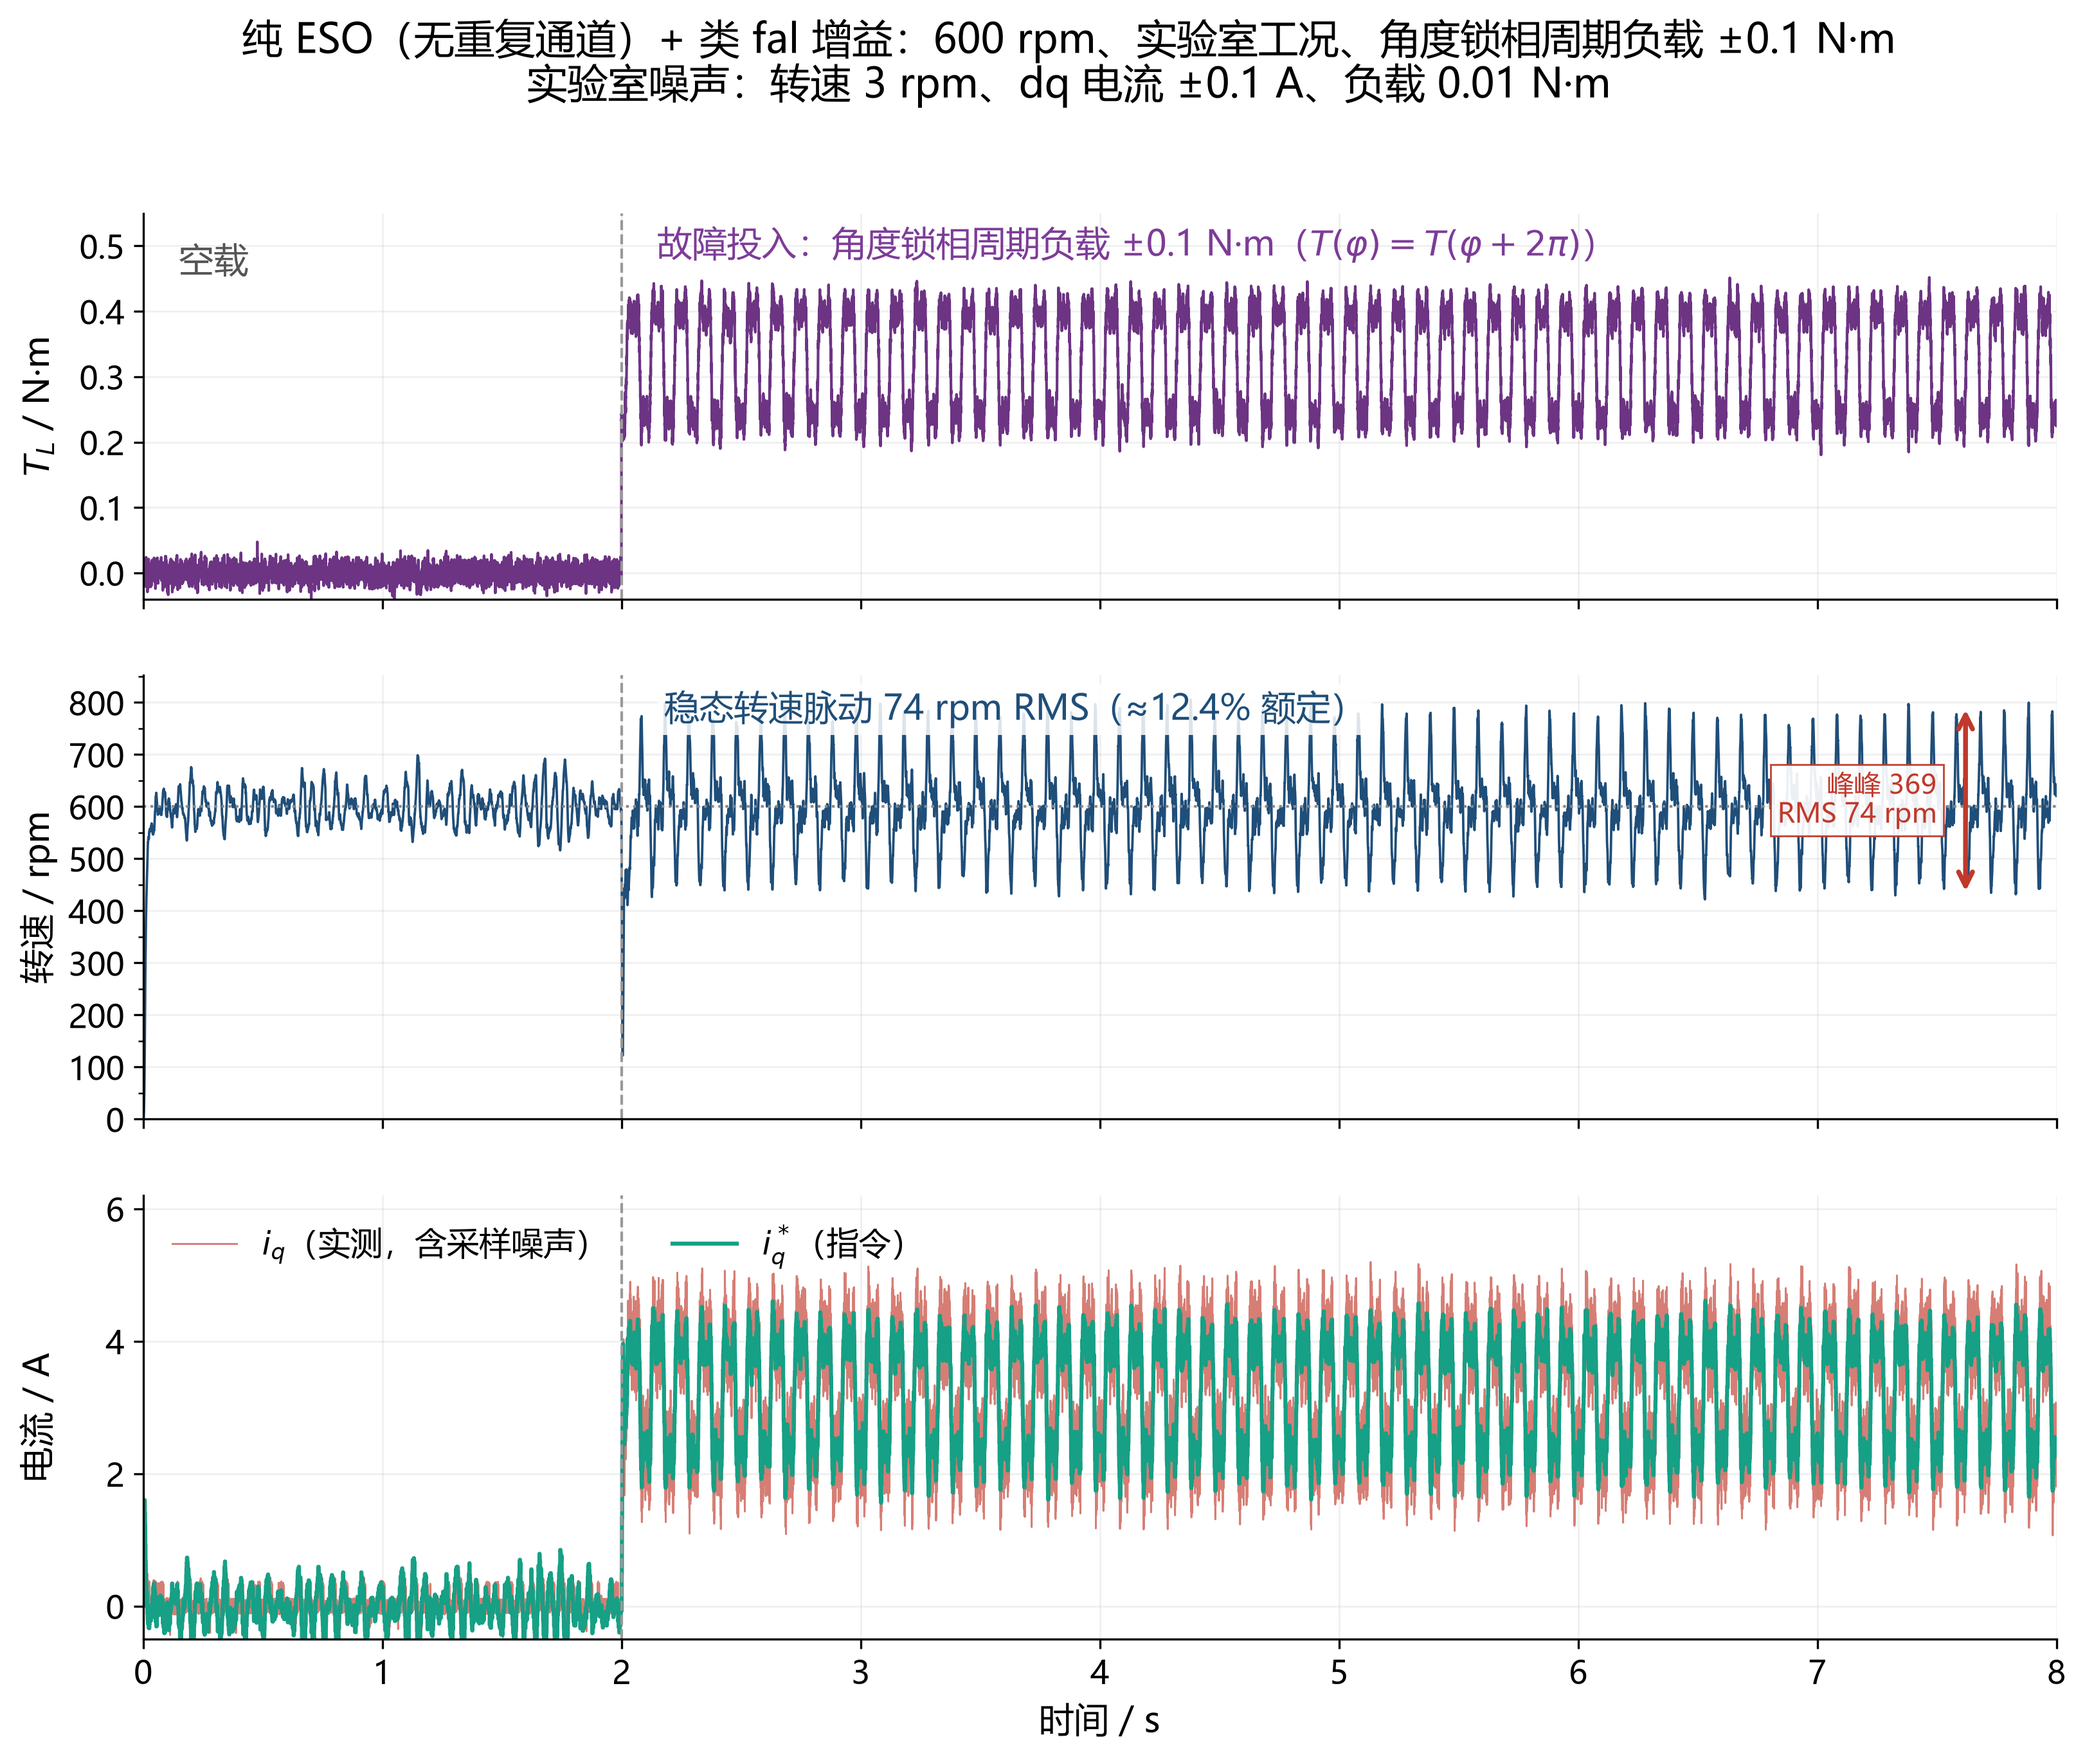
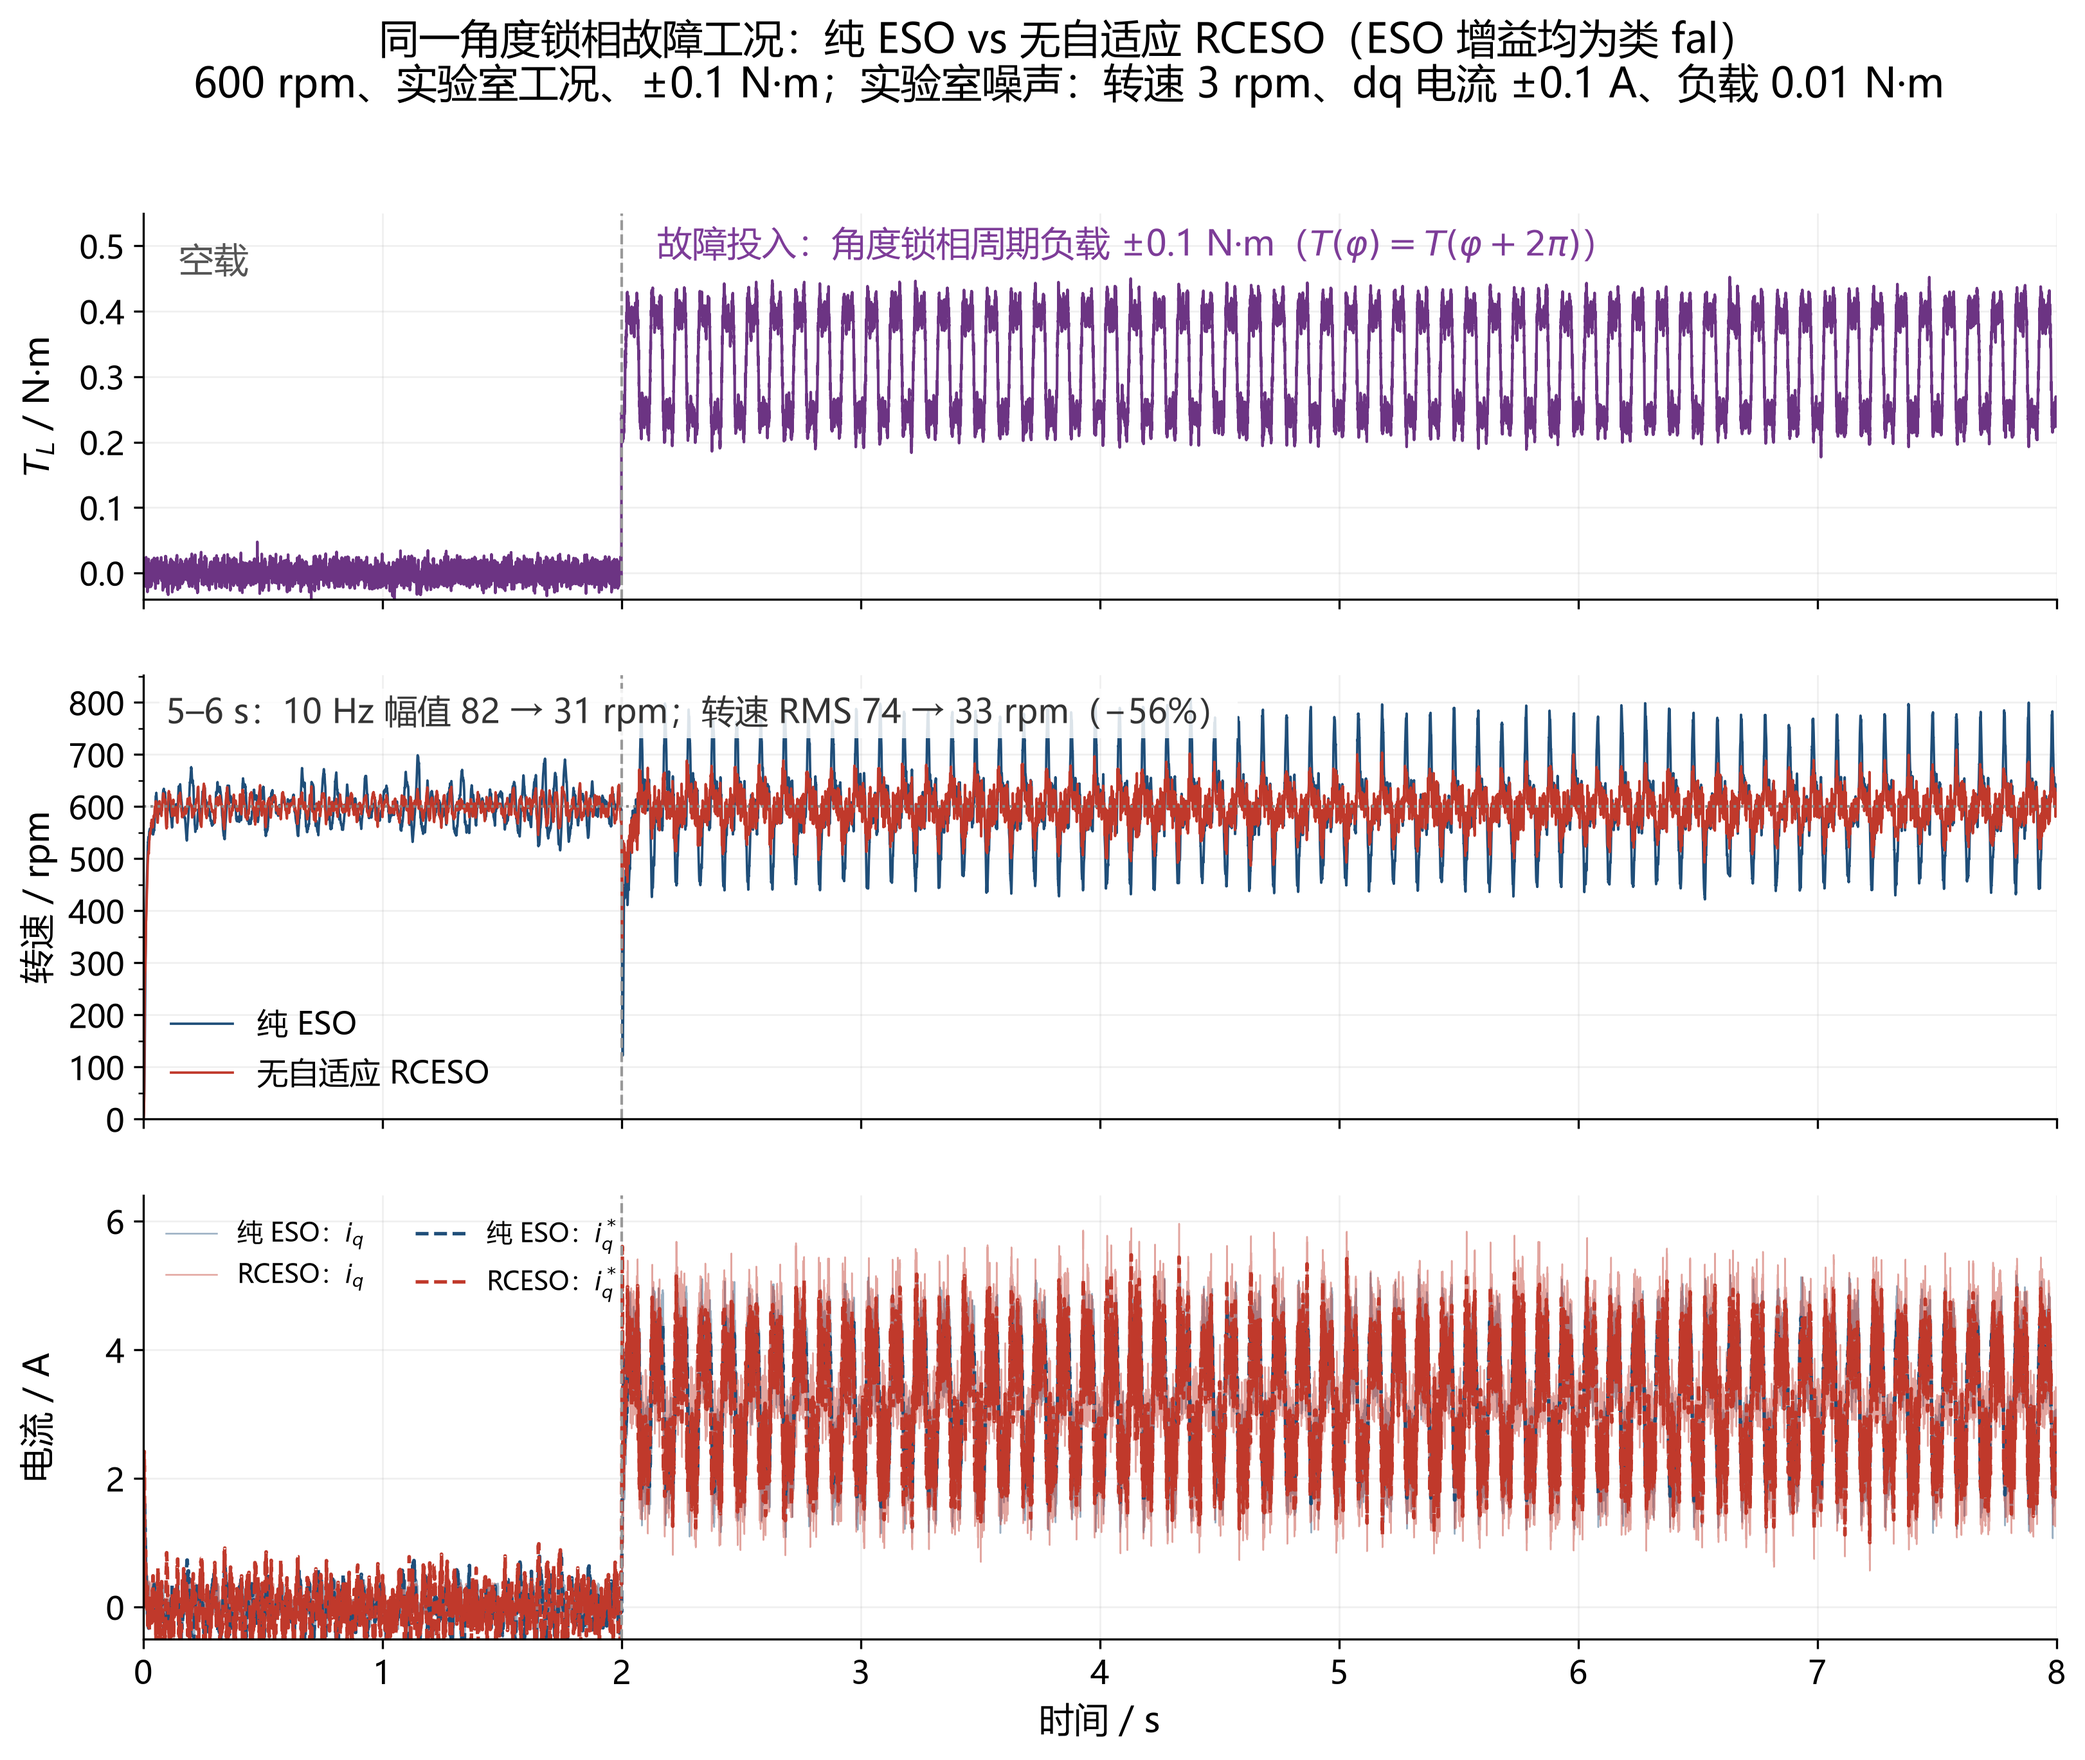
feat(ppt): 图1 增加同工况“无自适应 RCESO”对照（类 fal）
- 纯 ESO: beta3=0, 74.3 rpm RMS；无自适应 RCESO: beta3=4000, 32.6 rpm RMS (-56%)

- 10 Hz 幅值 81.7 -> 30.5 rpm；iq 峰值 5.20 -> 6.17 A

- 图改为双曲线：转速两档叠加，电流行 iq 实线 + iq* 虚线

diff --git a/plot_ppt_fig1.py b/plot_ppt_fig1.py
@@ -1,7 +1,7 @@
 # -*- coding: utf-8 -*-
-"""plot_ppt_fig1.py —— PPT 图 1：纯 ESO + 类 fal 增益 应对角度锁相周期负载
+"""plot_ppt_fig1.py —— PPT 图 1：同一故障工况下 纯 ESO vs 无自适应 RCESO（均类 fal 增益）
 
-三行：负载 / 转速 / iq 与 iq 指令。PPT 规格（16:9 风格、大字号、300 dpi、白底浅网格）。
+三行：负载 / 转速 / iq 与 iq 指令。PPT 规格（300 dpi、白底、大字号）。
 输出：pptfig/ppt_01_eso_fal_fault.png
 """
 import json
@@ -15,6 +15,8 @@ D = np.load("_ppt_fig1.npz")
 J = json.load(open("_ppt_fig1.json", encoding="utf-8"))
 t = D["t"]
 N = J["n_ref"]
+C_ESO, C_RC = "#1f4e79", "#c0392b"
+C_TL = "#6c3483"
 
 plt.rcParams.update({
     "font.sans-serif": ["Microsoft YaHei", "SimHei", "DejaVu Sans"],
@@ -22,16 +24,15 @@ plt.rcParams.update({
     "figure.dpi": 120, "savefig.dpi": 300, "savefig.bbox": "tight",
     "axes.grid": True, "grid.alpha": 0.18, "grid.linewidth": 0.7,
     "axes.spines.top": False, "axes.spines.right": False,
-    "legend.frameon": False, "legend.fontsize": 12,
+    "legend.frameon": False, "legend.fontsize": 11.5,
 })
 
-C_TL, C_N, C_IQ, C_IQR = "#6c3483", "#1f4e79", "#c0392b", "#16a085"
 fig, ax = plt.subplots(3, 1, figsize=(12.8, 9.6), sharex=True,
                        gridspec_kw=dict(hspace=0.18, height_ratios=[1, 1.15, 1.15]))
-step = 6      # 10 kHz -> ~1.7 kHz 抽点，够看清 10 Hz 波形
+step = 6
 
-# (1) 负载
-ax[0].plot(t[::step], D["TL"][::step], color=C_TL, lw=1.0)
+# (1) 负载（两档共用同一条）
+ax[0].plot(t[::step], D["TL"][::step], color=C_TL, lw=1.0, label="施加负载 $T_L$")
 ax[0].set_ylabel("$T_L$ / N·m")
 ax[0].set_ylim(-0.04, 0.55)
 ax[0].text(0.15, 0.46, "空载", fontsize=13, color="#555")
@@ -40,45 +41,43 @@ ax[0].text(2.15, 0.485, "故障投入：角度锁相周期负载 ±0.1 N·m（$T
 ax[0].axvline(2.0, color="#999", ls="--", lw=1.0)
 
 # (2) 转速
-y = D["y"] * N
-ax[1].plot(t[::step], y[::step], color=C_N, lw=0.9)
+y_eso = D["y_eso"] * N
+y_rc = D["y_rceso"] * N
+ax[1].plot(t[::step], y_eso[::step], color=C_ESO, lw=0.9, label="纯 ESO")
+ax[1].plot(t[::step], y_rc[::step], color=C_RC, lw=0.9, label="无自适应 RCESO")
 ax[1].axhline(N, color="#888", ls=":", lw=1.0)
+ax[1].axvline(2.0, color="#999", ls="--", lw=1.0)
 ax[1].set_ylabel("转速 / rpm")
-ax[1].set_ylim(0, 1.42 * N)          # 0-850：峰值实测到 805，留 5% 余量不裁切
+ax[1].set_ylim(0, 1.42 * N)
 ax[1].yaxis.set_major_locator(MultipleLocator(100))
 ax[1].yaxis.set_minor_locator(MultipleLocator(50))
-ax[1].axvline(2.0, color="#999", ls="--", lw=1.0)
-# 纵轴跨度与峰峰标注（让观众一眼知道这个波动在什么刻度下）
-_ys = (t >= 5.0) & (t < 6.0)
-_y0, _y1 = y[_ys].min(), y[_ys].max()
-ax[1].annotate("", xy=(7.62, _y0), xytext=(7.62, _y1),
-               arrowprops=dict(arrowstyle="<->", color="#c0392b", lw=1.8))
-ax[1].text(7.50, (_y0 + _y1) / 2, "峰峰 %.0f\nRMS %.0f rpm" % (_y1 - _y0, J["steady_rms"]),
-           fontsize=10, color="#c0392b", ha="right", va="center",
-           bbox=dict(facecolor="white", edgecolor="#c0392b", lw=0.7, alpha=0.92, pad=2.5))
-
-ax[1].text(2.18, 1.42 * N * 0.90,
-           "稳态转速脉动 %.0f rpm RMS（≈%.1f%% 额定）" % (J["steady_rms"], 100 * J["steady_rms"] / N),
-           fontsize=13, color=C_N,
+e_eso = J["cases"]["eso"]["steady_rms"]
+e_rc = J["cases"]["rceso"]["steady_rms"]
+ax[1].text(0.012, 0.955,
+           "5–6 s：10 Hz 幅值 82 → 31 rpm；转速 RMS %.0f → %.0f rpm（−%.0f%%）"
+           % (e_eso, e_rc, 100 * (1 - e_rc / e_eso)),
+           transform=ax[1].transAxes, fontsize=12.5, color="#333", va="top",
            bbox=dict(facecolor="white", edgecolor="none", alpha=0.85, pad=2.5))
+ax[1].legend(loc="lower left", ncol=1, fontsize=11.5)
 
-# (3) iq / iq*
-ax[2].plot(t[::step], D["iq"][::step], color=C_IQ, lw=0.7, alpha=0.65,
-           label="$i_q$（实测，含采样噪声）")
-ax[2].plot(t[::step], D["iqr"][::step], color=C_IQR, lw=1.5, label="$i_q^*$（指令）")
+
+# (3) 电流：两档的 iq 实线 + iq* 虚线
+ax[2].plot(t[::step], D["iq_eso"][::step], color=C_ESO, lw=0.6, alpha=0.45, label="纯 ESO：$i_q$")
+ax[2].plot(t[::step], D["iq_rceso"][::step], color=C_RC, lw=0.6, alpha=0.45, label="RCESO：$i_q$")
+ax[2].plot(t[::step], D["iqr_eso"][::step], color=C_ESO, lw=1.3, ls="--", label="纯 ESO：$i_q^*$")
+ax[2].plot(t[::step], D["iqr_rceso"][::step], color=C_RC, lw=1.3, ls="--", label="RCESO：$i_q^*$")
 ax[2].set_ylabel("电流 / A")
 ax[2].set_xlabel("时间 / s")
 ax[2].set_xlim(0, 8)
 ax[2].axvline(2.0, color="#999", ls="--", lw=1.0)
-ax[2].legend(loc="upper left", ncol=2)
-ax[2].set_ylim(-0.5, 6.2)
+ax[2].legend(loc="upper left", ncol=2, fontsize=9.5)
+ax[2].set_ylim(-0.5, 6.4)
 
 for a in ax:
     a.tick_params(labelsize=12)
-fig.suptitle("纯 ESO（无重复通道）+ 类 fal 增益：600 rpm、实验室工况、角度锁相周期负载 ±0.1 N·m\n"
-             "实验室噪声：转速 3 rpm、dq 电流 ±0.1 A、负载 0.01 N·m",
+fig.suptitle("同一角度锁相故障工况：纯 ESO vs 无自适应 RCESO（ESO 增益均为类 fal）\n"
+             "600 rpm、实验室工况、±0.1 N·m；实验室噪声：转速 3 rpm、dq 电流 ±0.1 A、负载 0.01 N·m",
              fontsize=15, y=0.985)
-
 fig.align_ylabels(ax)
 fig.savefig("pptfig/ppt_01_eso_fal_fault.png")
 print("ok: pptfig/ppt_01_eso_fal_fault.png")

diff --git a/run_ppt_fig1.py b/run_ppt_fig1.py
@@ -1,64 +1,75 @@
 # -*- coding: utf-8 -*-
-"""run_ppt_fig1.py —— PPT 图 1：纯 ESO（无重复通道）+ 类 fal 增益 应对角度锁相周期负载
+"""run_ppt_fig1.py —— PPT 图 1：同一故障工况下 纯 ESO vs 无自适应 RCESO（均用类 fal 增益）
 
 工况（实验室档）：
     额定 600 rpm（10 Hz 机械转频），实验室噪声 3 rpm / 0.1 A / 0.01 N·m
     0–2 s   空载
     2–8 s   加载 0.50 额定（0.3185 N·m）
-    2–8 s   叠加**角度锁相**周期分量：T(φ)=A·[sinφ+0.4sin3φ+0.2sin5φ]，T(φ)=T(φ+2π)，dφ/dt=ω
-            A=0.1 N·m（峰值 ±0.1 N·m）
-控制器：纯 ESO —— 重复通道关闭（beta3=0），无律 D / 无 F-B；ESO 增益取类 fal 默认档。
+    2–8 s   叠加**角度锁相**周期分量：T(φ)=A[sinφ+0.4sin3φ+0.2sin5φ]，T(φ)=T(φ+2π)，dφ/dt=ω，A=0.1 N·m
 
-输出：_ppt_fig1.npz（t / TL / y / iq / iqr）、_ppt_fig1.json（指标）
+两档（ESO 增益均为类 fal 默认档 a=0.75, δ=0.10, λ=10）：
+    纯 ESO   : beta3 = 0（重复通道关闭）
+    无自适应 RCESO : beta3 = 4000、Q0 = 0.98、τ0 = 20 ms 固定（无 Q/τ 自适应、无律 D、无 F-B）
+
+输出：_ppt_fig1.npz（t / TL / y_eso / y_rceso / iq_* / iqr_*）、_ppt_fig1.json
 """
 import json
 import math
 
 import numpy as np
 
-from pmsm_inv_sim import sim_inv, I_BASE
+from pmsm_inv_sim import sim_inv
 import noise_cfg as NC
 
 DT, TEND, TL0 = 2e-6, 8.0, 2.0
 N_REF = 600.0
-AMP_ANG = 0.1          # N·m 峰值
+AMP_ANG = 0.1
 T_RATED = 0.637
 NPROF = 4096
 
 
 def profile_unit():
-    """单位幅值、周期 2π 的角度表：sinφ + 0.4 sin3φ + 0.2 sin5φ（归一化到峰值 1）"""
     ph = np.linspace(0.0, 2 * math.pi, NPROF, endpoint=False)
     f = np.sin(ph) + 0.4 * np.sin(3 * ph) + 0.2 * np.sin(5 * ph)
     return f / np.max(np.abs(f))
 
 
+CASES = [("eso", "纯 ESO", dict(beta3=0.0)),
+         ("rceso", "无自适应 RCESO", dict(beta3=4000.0, Q0=0.98, tau0=20e-3))]
+
+
 def main():
     t = np.arange(0.0, TEND, DT)
-    TL = (0.50 * (t >= TL0)).astype(float) * T_RATED       # 阶跃负载（时间域）
-    cfg = dict(n_ref=N_REF, T=0.1, fci=500.0,
-               beta3=0.0, tau0=20e-3,                    # 纯 ESO：重复通道关闭
-               i_noise_peak=NC.NOISE_LAB["i_noise_peak"],
-               sig_n=NC.NOISE_LAB["sig_n_rpm"],
-               sig_T_nm=NC.NOISE_LAB["sig_T_nm"],
-               seed_i=20261018,
-               tl_ang=profile_unit(), tl_ang_amp=AMP_ANG, tl_ang_start=TL0,
-               eso_law="fal", eso_a=0.75, eso_delta=0.10, eso_lam=10.0)
-    Y = sim_inv(t, TL, cfg)
-    tt = Y["t"]
-    e = (Y["y"] - 1.0) * N_REF
-    np.savez("_ppt_fig1.npz", t=tt, TL=Y["tl"], y=Y["y"], iq=Y["iq"], iqr=Y["iqr"],
-             ia=Y["ia"])
-    m = (tt >= 4.0) & (tt < 8.0)
-    m0 = (tt >= 7.0)
-    out = dict(n_ref=N_REF, amp_ang=AMP_ANG, fci=500.0, beta3=0.0,
-               steady_rms=round(float(np.sqrt(np.mean(e[m0] ** 2))), 2),
-               load_rms=round(float(np.sqrt(np.mean(e[m] ** 2))), 2),
-               iq_std=round(float(np.std(Y["iq"][m])), 3),
-               iq_max=round(float(np.max(np.abs(Y["iq"][m]))), 2),
-               iqr_max=round(float(np.max(np.abs(Y["iqr"][m]))), 2))
-    json.dump(out, open("_ppt_fig1.json", "w", encoding="utf-8"), ensure_ascii=False, indent=1)
-    print(json.dumps(out, ensure_ascii=False))
+    TL = (0.50 * (t >= TL0)).astype(float) * T_RATED
+    base = dict(n_ref=N_REF, T=0.1, fci=500.0,
+                i_noise_peak=NC.NOISE_LAB["i_noise_peak"],
+                sig_n=NC.NOISE_LAB["sig_n_rpm"],
+                sig_T_nm=NC.NOISE_LAB["sig_T_nm"],
+                seed_i=20261018,
+                tl_ang=profile_unit(), tl_ang_amp=AMP_ANG, tl_ang_start=TL0,
+                eso_law="fal", eso_a=0.75, eso_delta=0.10, eso_lam=10.0)
+    out = {}
+    meta = {}
+    for key, label, kw in CASES:
+        Y = sim_inv(t, TL, dict(base, **kw))
+        tt = Y["t"]
+        e = (Y["y"] - 1.0) * N_REF
+        out["t"] = tt
+        out["TL"] = Y["tl"]
+        out["y_" + key] = Y["y"]
+        out["iq_" + key] = Y["iq"]
+        out["iqr_" + key] = Y["iqr"]
+        m = (tt >= 5.0) & (tt < 6.0)
+        meta[key] = dict(label=label,
+                         steady_rms=round(float(np.sqrt(np.mean(e[m] ** 2))), 2),
+                         iq_std=round(float(np.std(Y["iq"][m])), 3),
+                         iq_max=round(float(np.max(np.abs(Y["iq"][m]))), 2),
+                         iqr_max=round(float(np.max(np.abs(Y["iqr"][m]))), 2),
+                         beta3=kw["beta3"])
+        print(key, meta[key], flush=True)
+    np.savez("_ppt_fig1.npz", **out)
+    json.dump(dict(n_ref=N_REF, amp_ang=AMP_ANG, fci=500.0, cases=meta),
+              open("_ppt_fig1.json", "w", encoding="utf-8"), ensure_ascii=False, indent=1)
 
 
 if __name__ == "__main__":

diff --git a/pptfig/NOTES.md b/pptfig/NOTES.md
@@ -3,9 +3,9 @@
 > 口径：600 rpm、实验室档（3 rpm / 0.1 A / 0.01 N·m）、fci = 500 Hz、类 fal ESO（a=0.75, δ=0.10, λ=10）。
 > 所有数字可由根目录脚本复算，见每行"复现"。
 
-## ppt_01_eso_fal_fault.png —— 纯 ESO + 类 fal 应对角度锁相周期负载
+## ppt_01_eso_fal_fault.png —— 同一故障工况：纯 ESO vs 无自适应 RCESO（均类 fal）
 
-- **一句话**：只有 ESO、没有重复通道时，±0.1 N·m 的角度锁相周期负载会把转速打出 **74 rpm RMS（12.4% 额定）**的脉动，ESO 顶不住——这正是需要重复通道（RCESO）的理由。
+- **一句话**：±0.1 N·m 的角度锁相周期负载下，纯 ESO 打出 **74 rpm RMS（12.4% 额定）**；加上重复通道（无自适应 RCESO，β₃=4000、Q₀=0.98、τ₀=20 ms 固定）后降到 **33 rpm RMS（−56%）**，10 Hz 幅值 82 → 31 rpm，代价是 iq 峰值 5.20 → **6.17 A**（额定 6.5 A）。
 - **图怎么读**：0–2 s 空载；2 s 故障投入（0.50 额定台阶 + `T(φ)=A[sinφ+0.4sin3φ+0.2sin5φ]`，`T(φ)=T(φ+2π)`，`dφ/dt=ω`，A=0.1 N·m）；第三行看 `i_q*` 与 `i_q` 的跟随（实测电流含采样噪声）。
 - **参数**：β₃ = 0（重复通道关）、无律 D、无 F-B；ESO 增益类 fal。
 - **复现**：`python run_ppt_fig1.py` → `python plot_ppt_fig1.py`
